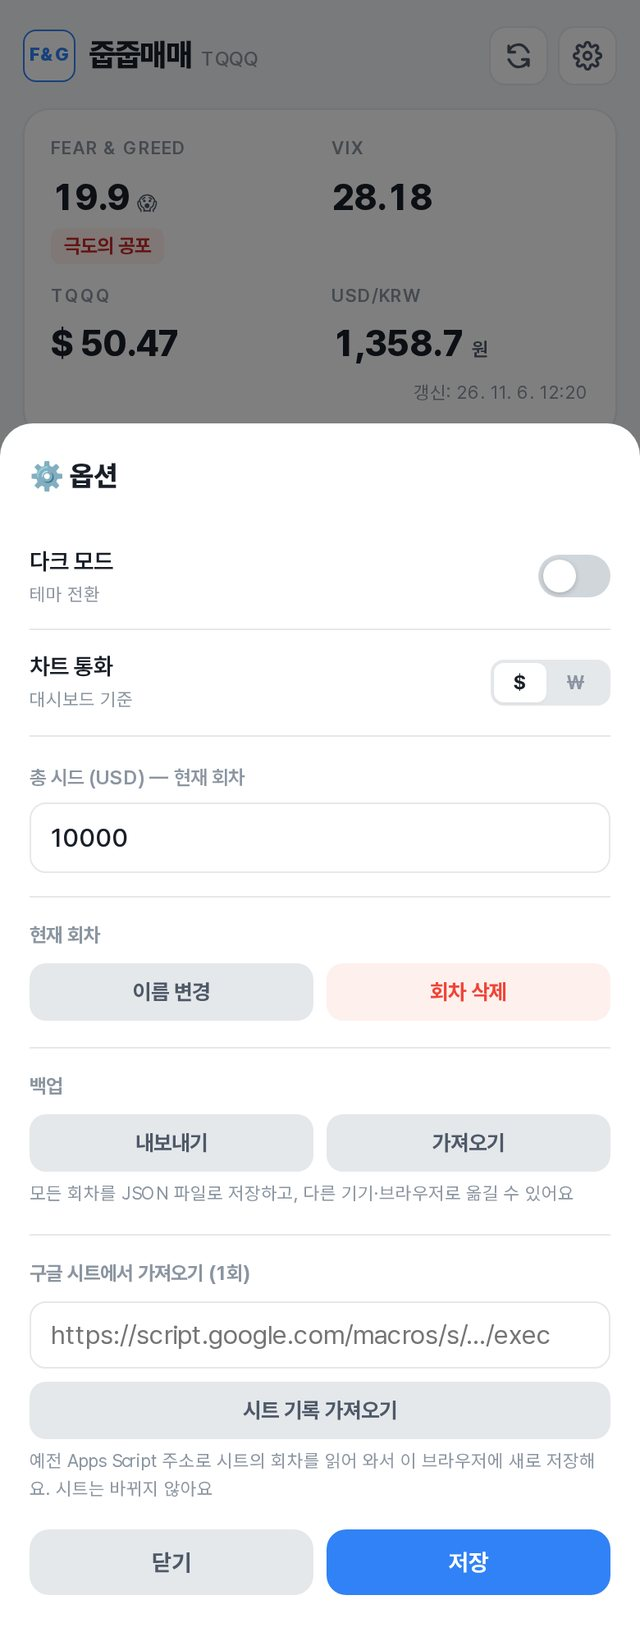
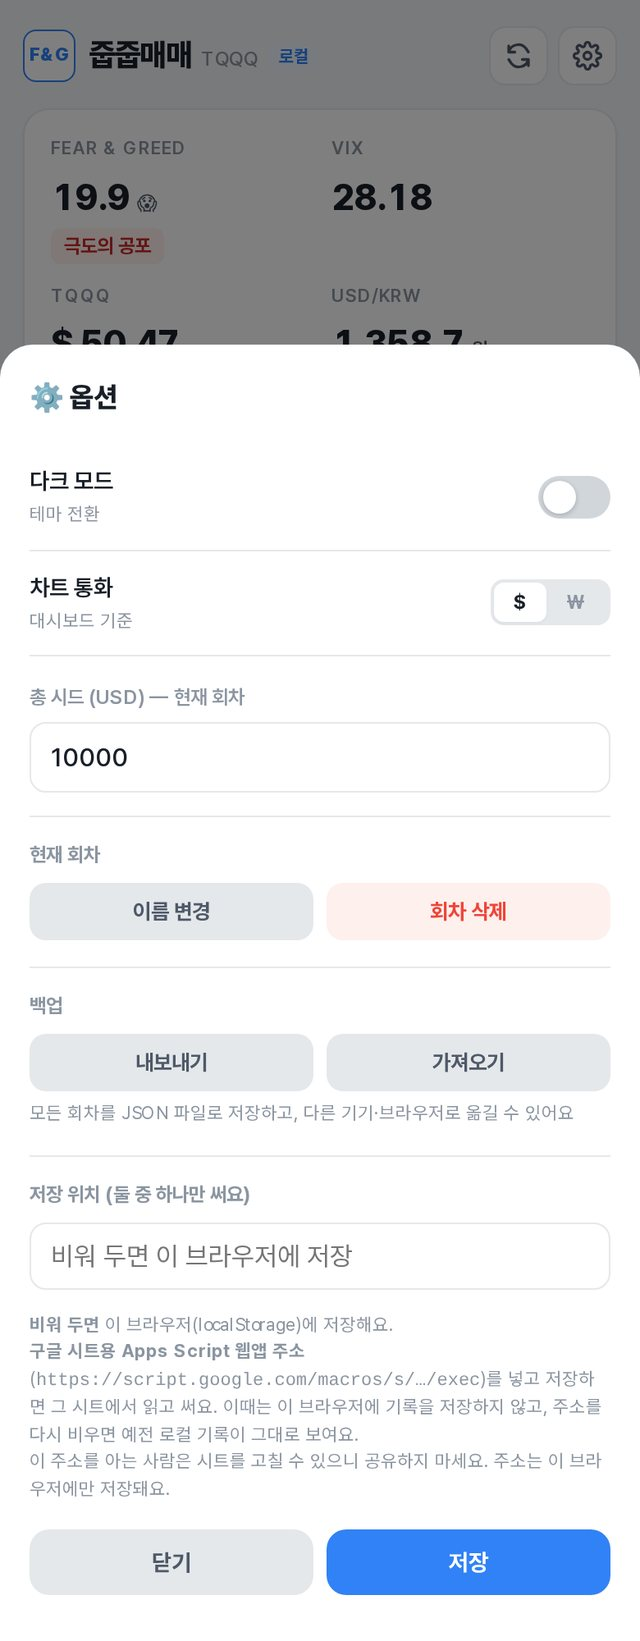
줍줍매매: 저장 위치(로컬/구글 시트) 선택 반영
소개 페이지, 개인정보 처리방침(시트 모드에서는 입력 기록이 사용자의 시트로 전송됨),
홈·문의 안내, CLAUDE.md와 옵션 스크린샷을 새 기능에 맞췄다.

diff --git a/index.html b/index.html
@@ -42,5 +42,5 @@ description: 소액 재테크를 관리하기 위한 공모주 수익관리, 무
       </div>
     </div>
   </div>
-  <p class="home-note">세 도구 모두 로그인 없이 쓸 수 있고, 입력한 데이터는 서버로 보내지 않고 내 브라우저에서만 처리됩니다.</p>
+  <p class="home-note">세 도구 모두 로그인 없이 쓸 수 있고, 입력한 데이터는 서버로 보내지 않고 내 브라우저에서만 처리됩니다. (줍줍매매는 옵션에서 내 구글 시트에 저장하도록 바꿀 수도 있어요)</p>
 </section>

diff --git a/CLAUDE.md b/CLAUDE.md
@@ -97,7 +97,7 @@ GitHub Pages(Jekyll)로 운영하는 투자 기록 사이트다. 게시판은 `i
 - 게시판 설정은 `_data/sections.yml`이고(상단 메뉴 순서도 이 순서), 목록 페이지는 `ipo.html`, `infinity.html`, `study.html`, 전체 글은 `posts.html`이다.
 - 상단 메뉴는 `홈 | 공모주 | 무한매수 | 공부요약 | 줍줍매매 | 마켓시그널 | 문의` 순서다. 게시판 이름은 `sections.yml`의 `nav`(짧은 이름)로, 줍줍매매·마켓시그널·문의는 `_layouts/default.html`에 직접 들어 있다. 메뉴 이름을 길게 바꾸면 폰에서 두 줄로 넘어가므로 바꿀 때마다 360px에서 확인한다.
 - **마켓시그널**(`market.html`, `/market/`)은 글이 아니라 별도 페이지다. 별도 저장소 `mzmzkgu/marketTraffic`가 만드는 `/marketTraffic/signals.json`(약 1시간마다 갱신)을 브라우저에서 읽어 카드로 그린다. `marketTraffic` 저장소와 `signals.json` 구조(`assets.<키>.driver/signal/price/high_365d/mdd_pct/fg_score/ma120/premium_pct` 등)를 바꾸면 이 페이지도 같이 고친다. 신호 기준 설명은 그 저장소의 `backend/market_signal_updater.py`와 맞춘다. 비트코인은 `driver: trend_ma120`(현재가가 자기 120일선 위면 매수, 아래면 매도, 공포탐욕은 참고용)이고, 리플은 `driver: follow_asset`(비트코인 신호를 그대로 따라가며 `ref_price`·`ref_ma120`은 비트코인 값)이다. 미국채 10년물(`us10y`, `driver: yield_level`)은 금리 5.0% 이상이면 매수, 그 외 관망이고 매도 신호는 없다. 데이터에 없는 자산은 카드를 그리지 않는다. 카드를 누르면 `market.html`의 `LINKS`에 있는 시세 사이트(네이버 증권, 김프는 kimp.co.kr)가 새 탭으로 열린다. 카드 배치는 `market.html`의 `GROUPS`(금융자산: 나스닥·미국채10년물·달러·엔화 / 기타자산: 금·김프·비트코인·리플, 각 2열)에서 바꾼다.
-- **줍줍매매**(`jupjup.html`, `/jupjup/`)는 글 게시판이 아니라 도구 소개 페이지다. 도구 본체는 별도 저장소 `mzmzkgu/buytheDip`(`/buytheDip/`, 정적 앱, 기록은 브라우저 localStorage에만 저장)이고, 이 페이지의 **매매 규칙 표는 그 저장소 `app.js`의 `BUY_DEF`·`SELL_DEF`와 같아야 한다.** 규칙이나 화면이 바뀌면 표와 스크린샷(`assets/images/buythedip/`, 예시 데이터로 찍은 것)도 같이 고친다. 홈의 도구 카드에도 들어 있다. 이 앱은 시세를 `/marketTraffic/signals.json`의 `assets.nasdaq.fg_score`·`fg_rating`, `assets.vix.vix`, `assets.usdkrw.price`에서 읽고 TQQQ 가격만 무한매수와 같은 Cloudflare Worker(`/price?ticker=TQQQ`)에서 받으므로, `marketTraffic`의 `signals.json` 구조를 바꾸면 `buytheDip`의 `fetchMarket()`도 같이 고친다.
+- **줍줍매매**(`jupjup.html`, `/jupjup/`)는 글 게시판이 아니라 도구 소개 페이지다. 도구 본체는 별도 저장소 `mzmzkgu/buytheDip`(`/buytheDip/`, 정적 앱, 기록은 기본적으로 브라우저 localStorage에 저장하고 옵션에서 본인 구글 시트(Apps Script 웹앱 주소)로 바꿀 수 있다. 시트 모드에선 입력 기록이 사용자의 시트로 전송되므로 개인정보 방침(`privacy.md` 2항)의 설명과 맞춰 둔다)이고, 이 페이지의 **매매 규칙 표는 그 저장소 `app.js`의 `BUY_DEF`·`SELL_DEF`와 같아야 한다.** 규칙이나 화면이 바뀌면 표와 스크린샷(`assets/images/buythedip/`, 예시 데이터로 찍은 것)도 같이 고친다. 홈의 도구 카드에도 들어 있다. 이 앱은 시세를 `/marketTraffic/signals.json`의 `assets.nasdaq.fg_score`·`fg_rating`, `assets.vix.vix`, `assets.usdkrw.price`에서 읽고 TQQQ 가격만 무한매수와 같은 Cloudflare Worker(`/price?ticker=TQQQ`)에서 받으므로, `marketTraffic`의 `signals.json` 구조를 바꾸면 `buytheDip`의 `fetchMarket()`도 같이 고친다.
 - 소개와 문의는 `contact.md`(`/contact/`) 한 페이지로 합쳤다. `about.html`은 옛 `/about/` 주소를 `/contact/`로 보내는 이동용 파일이니 지우지 않는다.
 - 새 게시판을 만들 때는 `_data/sections.yml`에 한 줄과 목록 페이지 하나를 추가하고, 360px 폰에서 상단 메뉴가 한 줄에 들어가는지 확인한다.
 - 스타일은 `assets/style.css` 하나다. **CSS 주석(`/* */`)을 열면 반드시 닫는다.** (닫지 않으면 아래 스타일이 통째로 무시된다.)

diff --git a/contact.md b/contact.md
@@ -52,5 +52,5 @@ description: 소소한 재테크 작업실과 운영자를 소개하고, 도구 
 
 ## 데이터 처리
 
-도구에 입력한 데이터는 서버로 전송되지 않고 사용자의 브라우저 안에서만 처리·저장됩니다.
+도구에 입력한 데이터는 서버로 전송되지 않고 사용자의 브라우저 안에서만 처리·저장됩니다. (줍줍매매는 사용자가 옵션에서 직접 연결한 본인의 구글 시트에 저장할 수도 있습니다.)
 자세한 내용은 [개인정보 처리방침]({{ '/privacy/' | relative_url }})을 확인해 주세요.
